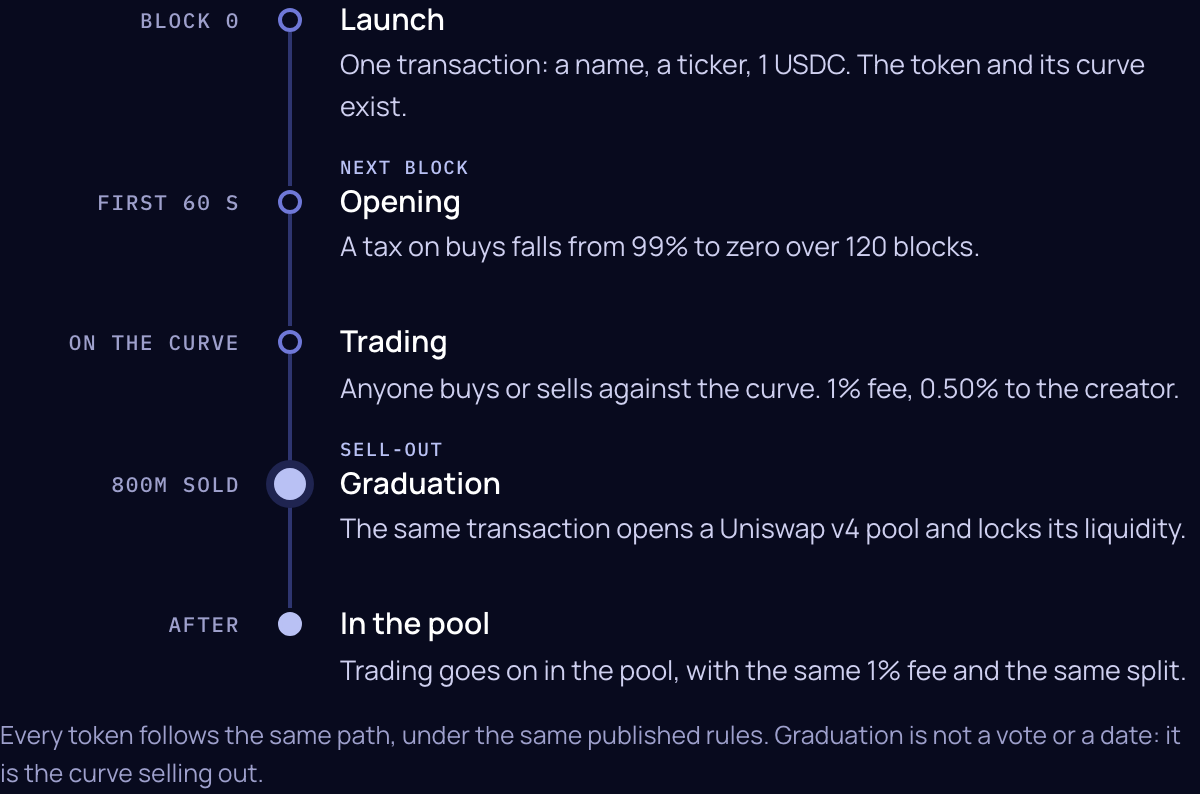
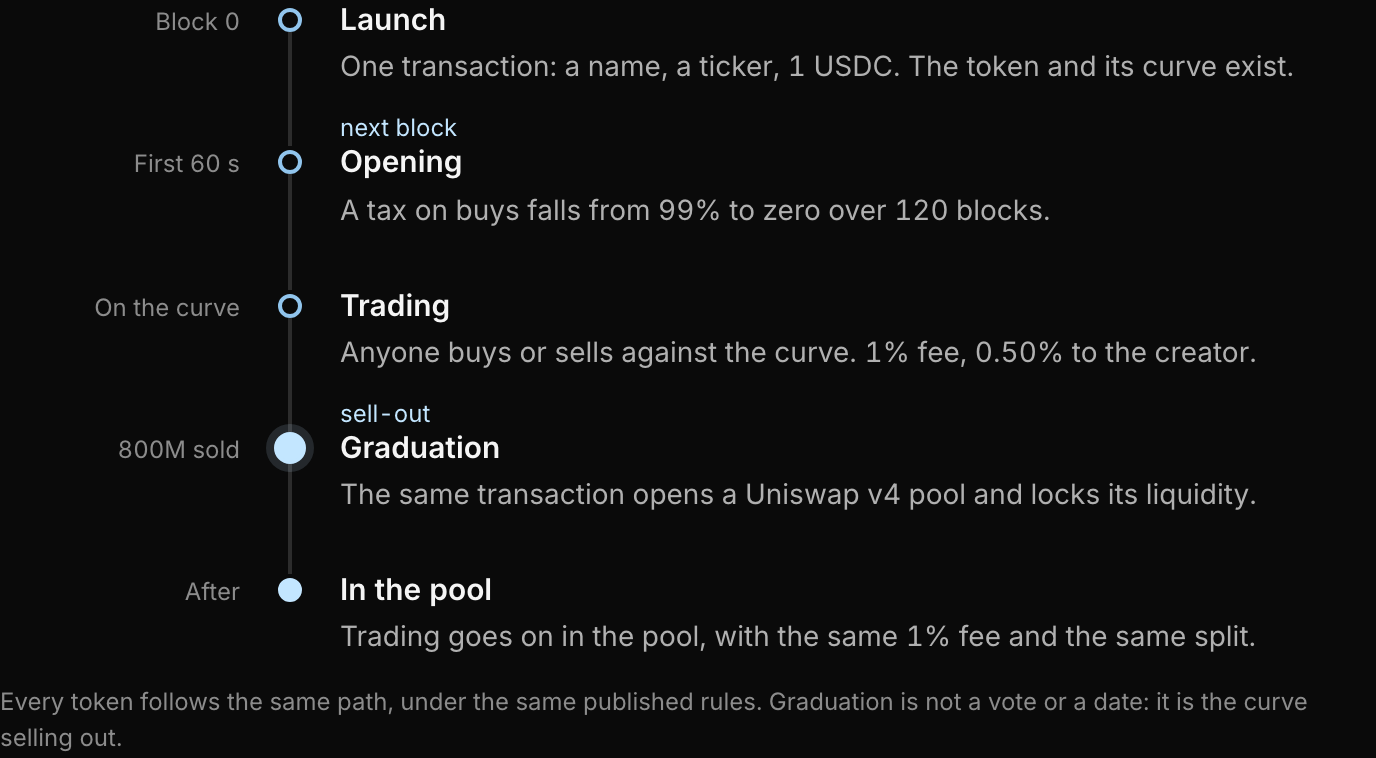
Move the README to the Mercurifi brand
New banners and mark on the brand-v2 palette, the lifecycle, curve, fee
split and snipe tax figures recaptured from the live docs site, badge
colours to match, the product named Mercurifi Launch, and a CODEOWNERS
file naming the maintainer.

Changed region(s): [[0.0617, 0.0, 0.9867, 0.8799], [0.0, 0.9103, 0.9867, 1.0]]

diff --git a/README.md b/README.md
@@ -1,7 +1,7 @@
 <p align="center">
   <picture>
     <source media="(prefers-color-scheme: dark)" srcset="assets/banner-dark.png">
-    <img src="assets/banner-light.png" alt="mercuri launch — Name it. Sign once. It trades in dollars." width="100%">
+    <img src="assets/banner-light.png" alt="Mercurifi Launch — Name it. Sign once. It trades in dollars." width="100%">
   </picture>
 </p>
 
@@ -9,15 +9,15 @@
   <img src="assets/mark.svg" width="56" height="56" alt="">
 </p>
 
-<h1 align="center">mercuri launch · contracts</h1>
+<h1 align="center">Mercurifi Launch · contracts</h1>
 
 <p align="center">
-  <a href="https://explorer.arc.io/address/0x8f5DfA0c48E14cCD03AE01795B8a95759BA859EB"><img src="https://img.shields.io/badge/Arc_mainnet-chain_5042-43459D?style=flat-square" alt="Arc mainnet, chain 5042"></a>
-  <a href="deployments/5042.json"><img src="https://img.shields.io/badge/release-v1.0.0-1B3158?style=flat-square" alt="release v1.0.0"></a>
-  <a href="#build-and-verify"><img src="https://img.shields.io/badge/bytecode-reproducible-1B3158?style=flat-square" alt="bytecode reproducible"></a>
-  <a href="foundry.toml"><img src="https://img.shields.io/badge/solidity-0.8.26-1B3158?style=flat-square" alt="Solidity 0.8.26"></a>
-  <a href="src/LaunchHook.sol"><img src="https://img.shields.io/badge/liquidity-Uniswap_v4-1B3158?style=flat-square" alt="Uniswap v4"></a>
-  <a href="LICENSE"><img src="https://img.shields.io/badge/license-MIT-1B3158?style=flat-square" alt="MIT license"></a>
+  <a href="https://explorer.arc.io/address/0x8f5DfA0c48E14cCD03AE01795B8a95759BA859EB"><img src="https://img.shields.io/badge/Arc_mainnet-chain_5042-C3E6FF?style=flat-square" alt="Arc mainnet, chain 5042"></a>
+  <a href="deployments/5042.json"><img src="https://img.shields.io/badge/release-v1.0.0-0A0A0A?style=flat-square" alt="release v1.0.0"></a>
+  <a href="#build-and-verify"><img src="https://img.shields.io/badge/bytecode-reproducible-0A0A0A?style=flat-square" alt="bytecode reproducible"></a>
+  <a href="foundry.toml"><img src="https://img.shields.io/badge/solidity-0.8.26-0A0A0A?style=flat-square" alt="Solidity 0.8.26"></a>
+  <a href="src/LaunchHook.sol"><img src="https://img.shields.io/badge/liquidity-Uniswap_v4-0A0A0A?style=flat-square" alt="Uniswap v4"></a>
+  <a href="LICENSE"><img src="https://img.shields.io/badge/license-MIT-0A0A0A?style=flat-square" alt="MIT license"></a>
 </p>
 
 <p align="center">
@@ -208,7 +208,7 @@ Weigh that before relying on the contracts. To report a vulnerability, see [`SEC
 
 ---
 
-<sub>mercuri and mercuri launch are independent products. They are not affiliated with, sponsored by or endorsed by
+<sub>Mercurifi and Mercurifi Launch are independent products. They are not affiliated with, sponsored by or endorsed by
 Circle Internet Group, Inc. or its affiliates. Arc and USDC are trademarks of Circle Internet Group, Inc. and/or its
 affiliates, named here only to say which network and which asset the contracts work with. Uniswap is a trademark of
 Uniswap Labs.</sub>

diff --git a/CONTRIBUTING.md b/CONTRIBUTING.md
@@ -1,6 +1,6 @@
 # Contributing
 
-This public repository owns the mercuri launch contracts as deployed on Arc, including their tests and release
+This public repository owns the Mercurifi Launch contracts as deployed on Arc, including their tests and release
 tooling. Anyone can read the code behind the addresses, rebuild it and check the bytecode. A change to a deployed
 contract requires a new reviewed release and the applicable timelock process. Pull requests are reviewed, but
 merging one never authorizes a contract transaction.
